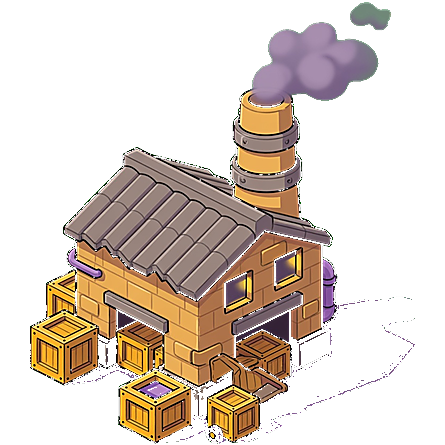
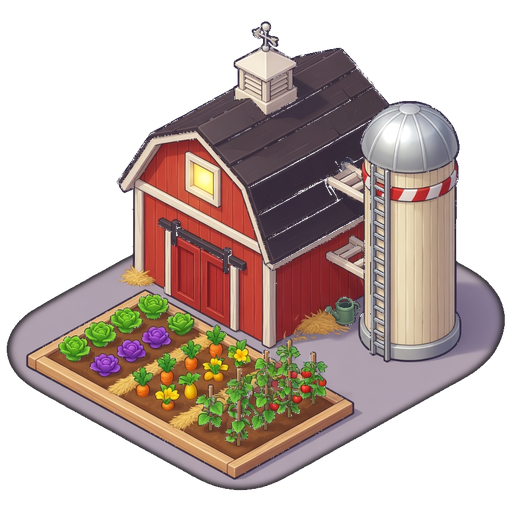
Art: nye iso-steder (capital, by, farm, fabrik, havn)
Erstatter place-sprites med ensartet cozy iso-stil, retter
farm/factory-mapping, og tegner steder lidt større i render.

diff --git a/js/render.js b/js/render.js
@@ -397,7 +397,7 @@ export class Renderer {
     const ctx = this.ctx;
     const iso = worldToIso(place.x, place.y);
     const img = getPlaceImage(place.type, place.variant || 0);
-    const base = Math.max(36, place.r * 1.15);
+    const base = Math.max(40, place.r * 1.28);
 
     // Soft ground contact + light pad
     ctx.beginPath();
